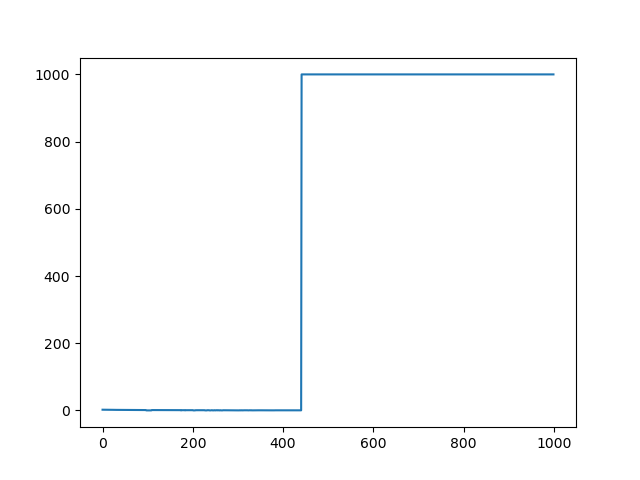
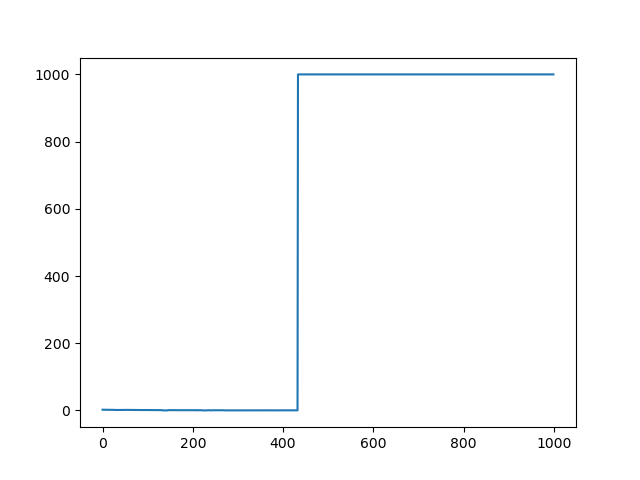
generic commit

Changed region(s): [[0.4375, 0.1562, 0.5, 0.8438]]

diff --git a/scripts/transport/unif_transport.py b/scripts/transport/unif_transport.py
@@ -270,7 +270,7 @@ def get_res_dict_kern(Y,params):
     x_0 = np.zeros(N)
     bnds = [(1 / N ** 2, np.inf) for i in range(N)]
     result = minimize(f, x_0, method='L-BFGS-B', bounds=bnds,
-                      options={'disp': False, 'maxiter': 10000, 'maxfun': 500000, 'gtol': 1e-8, 'ftol': 1e-10})
+                      options={'disp':True, 'maxiter': 10000, 'maxfun': 500000, 'gtol': 1e-8, 'ftol': 1e-10})
 
     alpha =  result['x']
     thetas = Y_model.thetas
@@ -326,7 +326,7 @@ def get_res_dict(Y,params):
 
 
 def run():
-    N = 1000
+    N = 400
     diff_quantiles = [0,.4]
     Y = normal_theta_circle(1000)
     diff_map = circle_diffs

diff --git a/scripts/transport/fit_kernel.py b/scripts/transport/fit_kernel.py
@@ -138,7 +138,7 @@ def dict_to_np(dict):
     return dict
 
 def unif_boost_exp(Y_gen, X_gen = None, exp_name= 'exp', diff_map = unif_diffs,  N = 500,
-                   plt_range = None, t_iter = 300, diff_quantiles = [0.0, 0.4], q = 1, vmax = None):
+                   plt_range = None, t_iter = 500, diff_quantiles = [0.0, 0.4], q = 1, vmax = None):
     save_dir = f'../../data/kernel_transport/{exp_name}'
 
     try:
